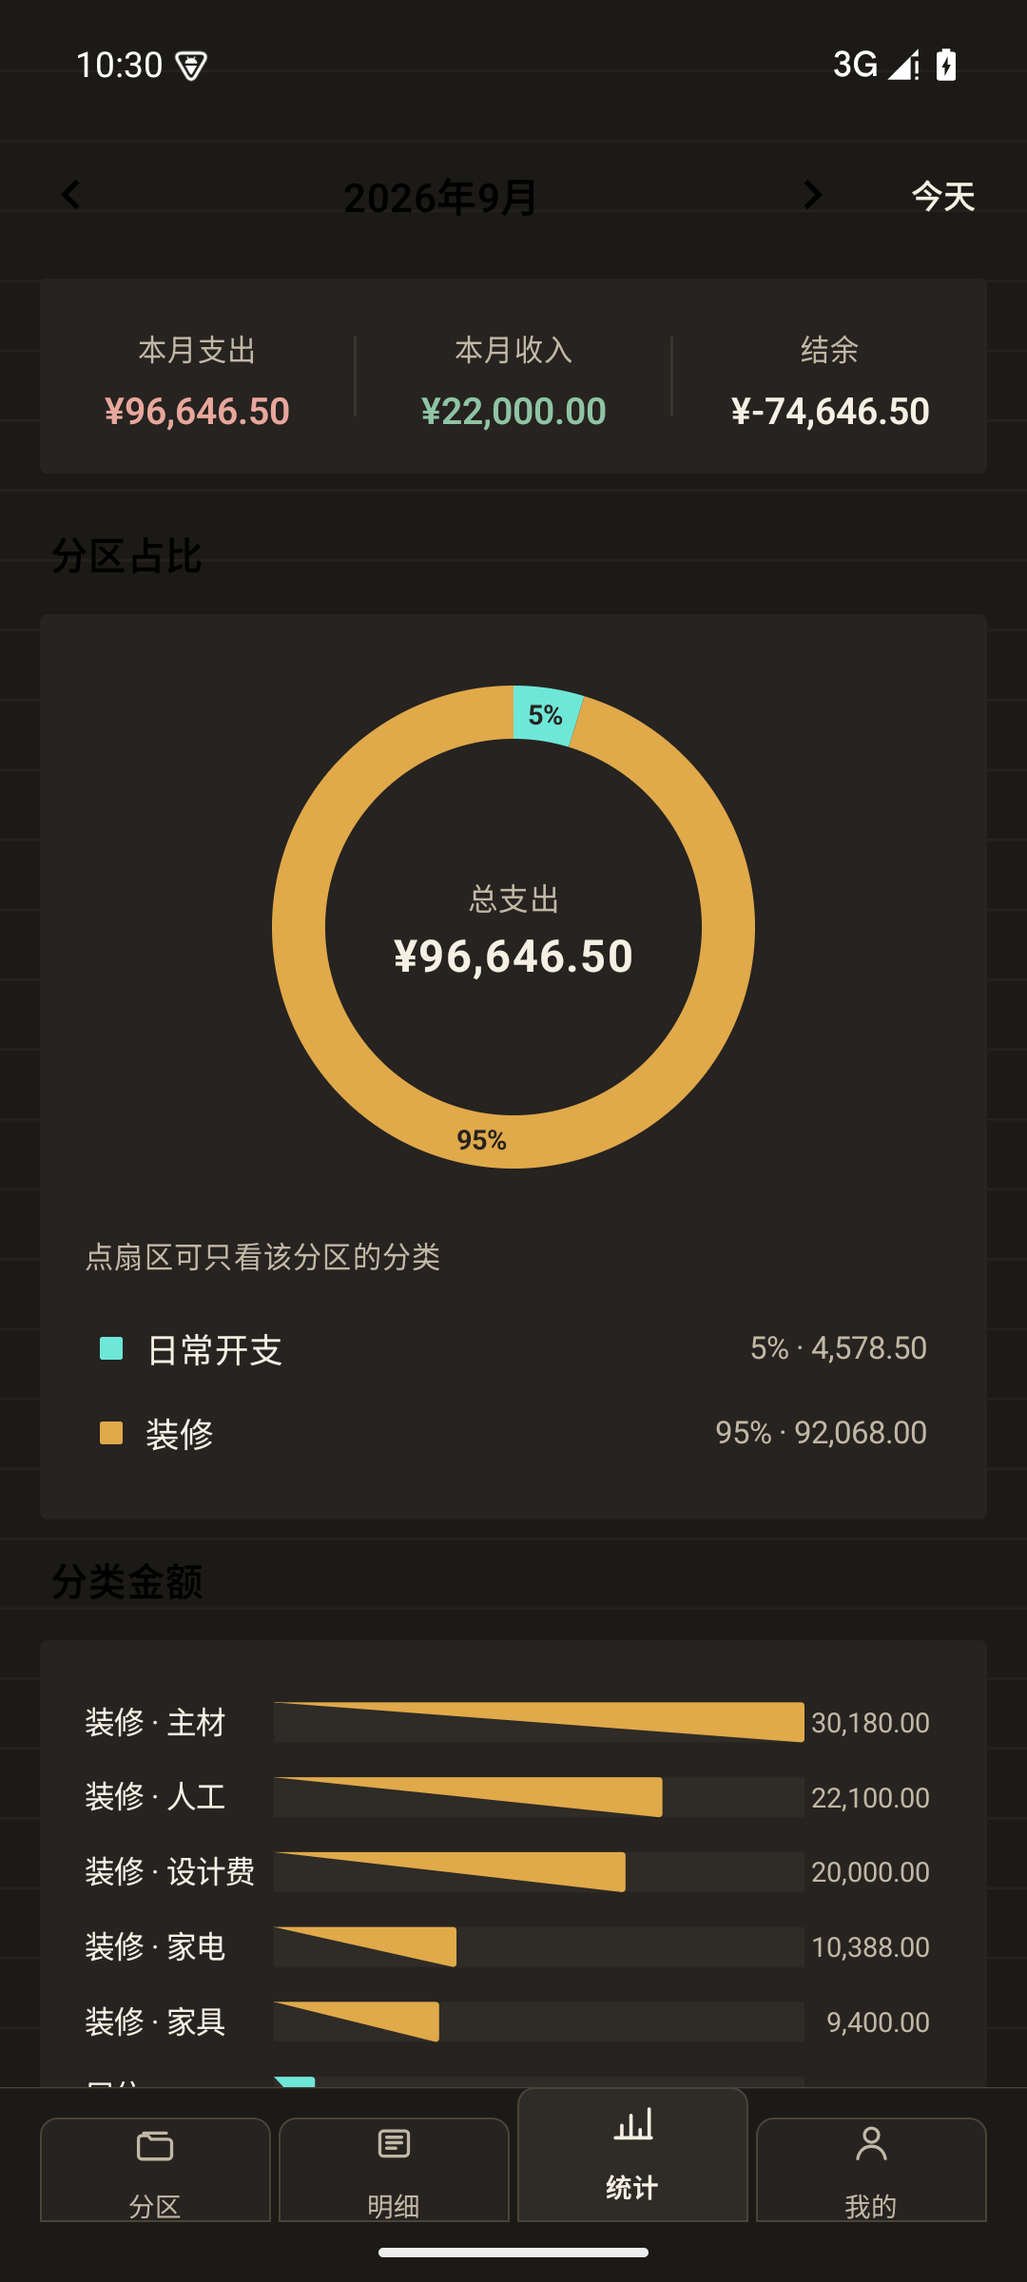
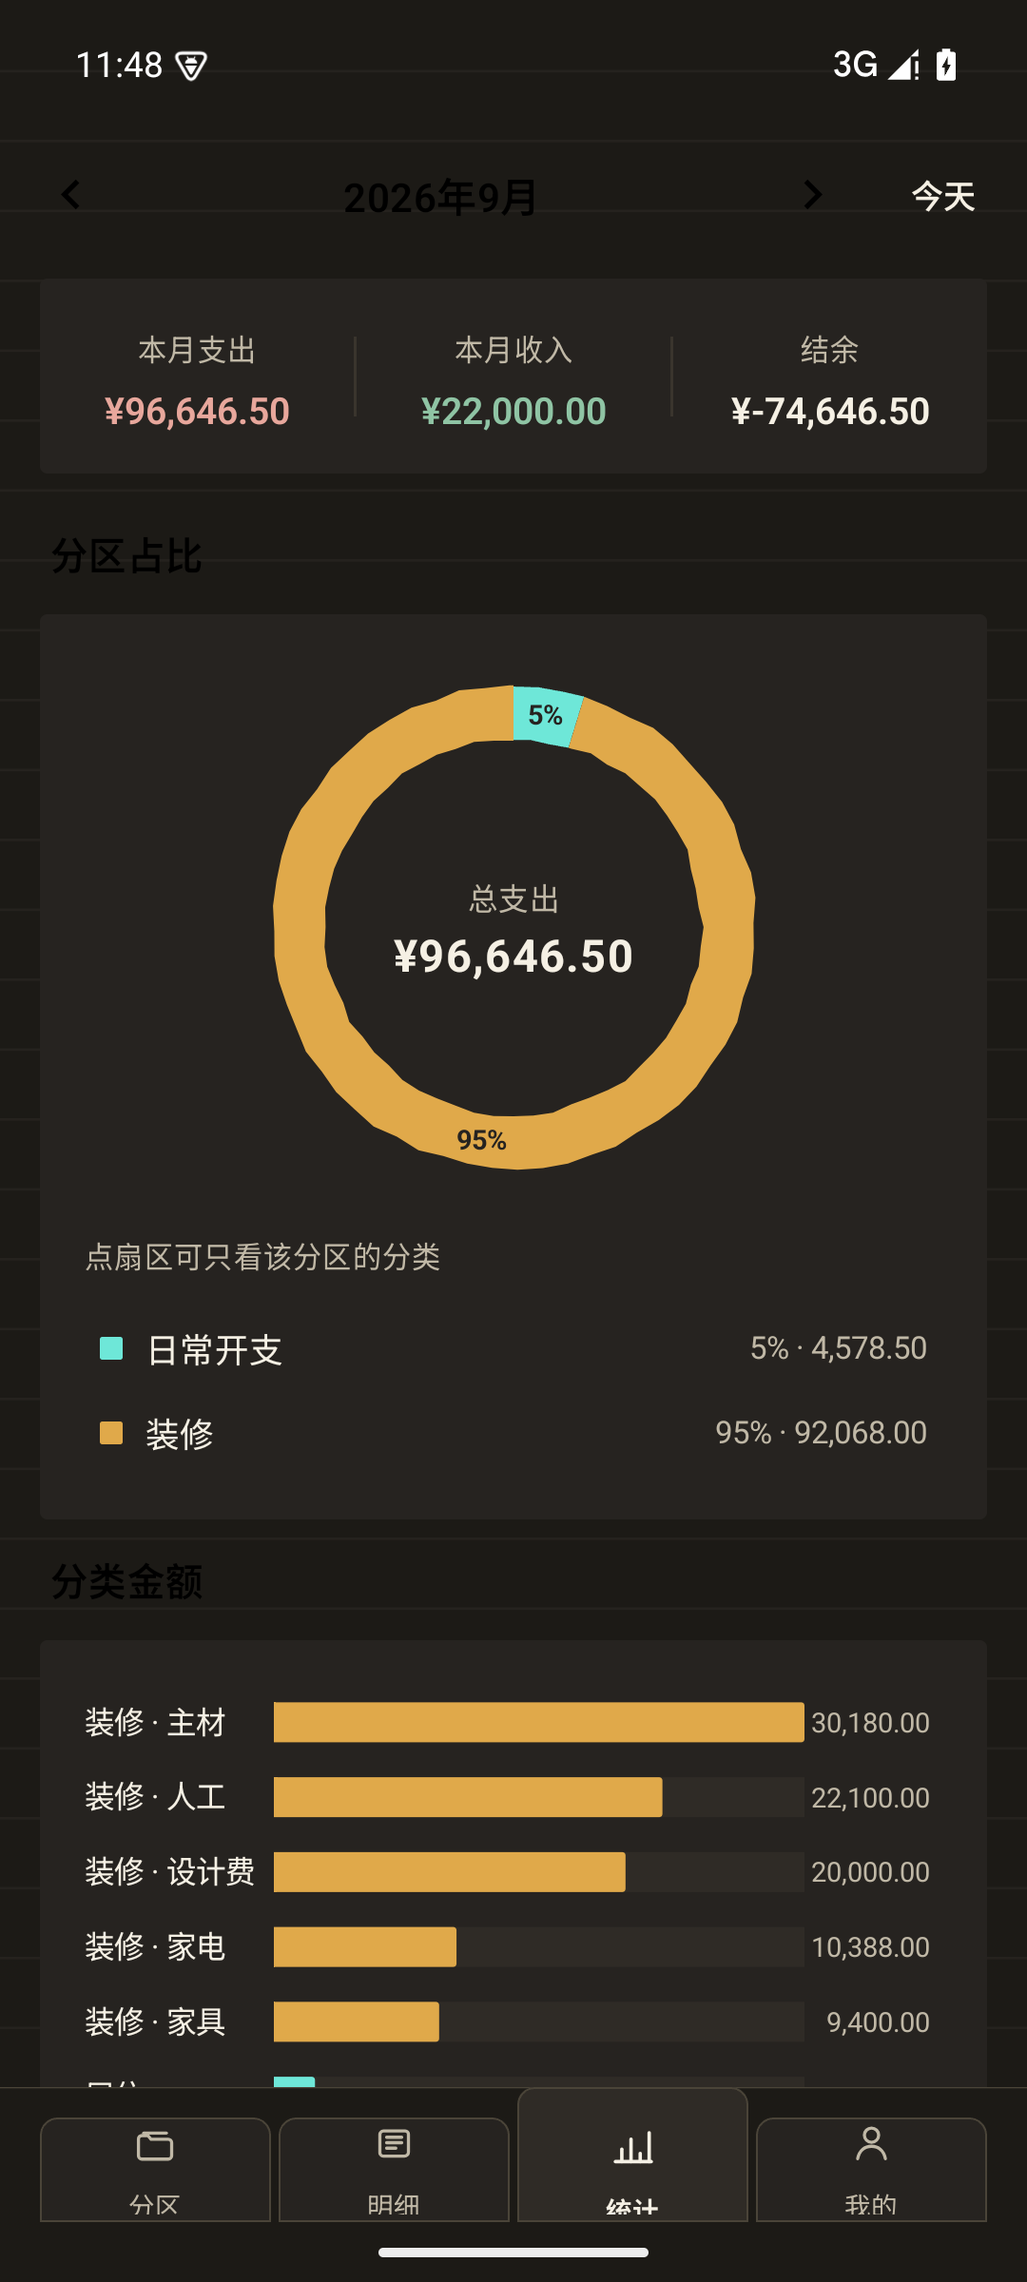
feat(journal): P2 收口 —— 手绘环图 / 日期头降噪 / 菜单锚点 / 规范措辞清理
【P2-1 手绘环图（规范 §2.5「手绘甜甜圈：外圈抖动描边」）】
DonutChart 的环带不再用完美圆弧 drawArc，改为「环形扇面路径」：
外缘顺时针、内缘逆时针各采样一排点，半径按角度散列微抖 ±1dp。
三条底线：扇区起止角保持精确（数据准确性不被手绘感吃掉）；
采样点按角度分桶（6° 一桶），相邻扇区在公共边界取同一抖动值 → 接缝不裂；
抖动确定性（同 markerJitter 的散列派生）→ 重组时不抖屏。
同时不再单独画挖空圆 —— 每个扇区是自封闭的环形扇面，环心自然留空。

【P2-2 日期头只显示有值的半边】
某天只有支出时不再显示「收 0.00」、只有收入时不显示「支 0.00」——
「0.00」不携带信息还占宽度，且让人下意识怀疑漏记。
真机核对：9月19日 只有支出 → 「支 2,045.00」（改前是「支 2,045.00 收 0.00」）；
9月20日 两侧都有 → 「支 21.00　收 3,500.00」不变。
day_summary 资源随之删除（文案改在 DayHeader 里按值拼装）。

【P2-3 长按菜单锚定到行的右上角】
DropdownMenu 内部的 Modifier.align(TopEnd) 对弹出位置**无效**——
那个 modifier 作用于弹窗内容，不是锚点；不包一层 Box 的话，弹窗锚定到行的
左上角（实测渲染在左侧，与代码意图相反）。修法：包一层 Box(align=TopEnd) 定位。
真机核对：菜单首项「复制一笔」中心 x=866（右侧 ✓，改前在左侧）。

【P2-4 更正一项误判】
「明细列表底部被记一笔按钮压住」经真机滚动到底复核：最后一行 cy=1985，
底栏索引贴顶 y≈2238，之间有 96dp 空隙 —— **无遮挡，该条是我的误判**，更正并撤销。

【P2-5 规范措辞】§2.1 图示删掉「顶部 2dp 主墨描边」残留（该顶条已在前一提交删除）。

【代码质量（按 code-readability-for-agents 六步工作流自查）】
- 命名审计：本轮 15 个新符号（DonutChart/SectionDonutChart/CategoryBarChart/
  sectionShares/filterBySection/DonutSlice/SectionShare/BarRow/DonutGeometry…）
  每个定义唯一、搜索唯一命中，无跨模块重名；
- 0-emoji 检查揪出 M2 遗留的一处注释 emoji（Theme.kt:42，当时漏检）—— 已清除；
- Charts.kt 615 行（4 张图 + 3 段读屏摘要）：全 App 的图表集中在单一文件，
  一次搜索即达，暂不拆分；体量登记为例外。
- 删除无用资源 day_summary、未用变量 holeColor。

【验证】
- assembleDebug + assembleRelease + testDebugUnitTest 全绿，编译 0 警告
- 0-emoji 检查 ✅
- 真机浅色/深色截图：stats-donut-handdrawn(.dark).png、entry-menu-topright.png

Changed region(s): [[0.2444, 0.7188, 0.7028, 0.9062], [0.5806, 0.9062, 0.6417, 0.9688], [0.0917, 0.0, 0.1528, 0.0312]]

diff --git a/app/src/main/java/com/simpleledger/app/ui/ledger/LedgerRows.kt b/app/src/main/java/com/simpleledger/app/ui/ledger/LedgerRows.kt
@@ -72,7 +72,13 @@ import com.simpleledger.app.ui.theme.tapeColor
  * 故所有既有引用（含跨包的 `import ...ledger.AmountText`）无需任何改动。
  */
 
-/** 日分组标题：日期 + 当日收支汇总 */
+/**
+ * 日分组标题：日期 + 当日收支汇总。
+ *
+ * 汇总**只显示有值的半边**：某天只有支出时不写「收 0.00」、只有收入时不写「支 0.00」
+ * ——「0.00」不携带任何信息，却占掉一截宽度，还让人下意识去核对是不是漏记了。
+ * 两边都有值时才并排（中间用全角空格隔开，读屏与视觉同一份文案）。
+ */
 @Composable
 internal fun DayHeader(dateLabel: String, expenseCents: Long, incomeCents: Long) {
     val hidden = LocalHideAmounts.current
@@ -94,11 +100,13 @@ internal fun DayHeader(dateLabel: String, expenseCents: Long, incomeCents: Long)
             text = if (hidden) {
                 stringResource(R.string.day_summary_hidden)
             } else {
-                stringResource(
-                    R.string.day_summary,
-                    Money.formatCents(expenseCents),
-                    Money.formatCents(incomeCents),
-                )
+                buildString {
+                    if (expenseCents > 0) append("支 ").append(Money.formatCents(expenseCents))
+                    if (incomeCents > 0) {
+                        if (isNotEmpty()) append("　")
+                        append("收 ").append(Money.formatCents(incomeCents))
+                    }
+                }
             },
             fontSize = 11.5.sp,
             color = MaterialTheme.colorScheme.onSurfaceVariant,
@@ -309,86 +317,91 @@ internal fun EntryRow(
             AmountText(amountCents = full.entry.amountCents, isIncome = isIncome)
         }
 
-        DropdownMenu(
-            expanded = menuOpen,
-            onDismissRequest = { menuOpen = false },
-            modifier = Modifier.align(Alignment.TopEnd),
-        ) {
-            DropdownMenuItem(
-                text = { Text(stringResource(R.string.duplicate_one)) },
-                onClick = {
-                    menuOpen = false
-                    onDuplicate()
-                },
-            )
-            DropdownMenuItem(
-                text = { Text(stringResource(R.string.move_section_title)) },
-                onClick = {
-                    menuOpen = false
-                    onMove()
-                },
-            )
-
-            // v4 双维状态入口（规范 §3.5）。两项都放在「移动」与「删除」之间：
-            // 删除是破坏性动作，必须离上面的日常动作远一点。
-            onToggleReconciled?.let { toggle ->
-                val already = full.entry.reconciled
+        // 弹出菜单锚定在行的**右上角**：DropdownMenu 内部的 align(TopEnd) 对弹出位置
+        // 无效 —— 那个 modifier 作用于弹窗内容，不是锚点；不包一层 Box 的话，
+        // 弹窗会锚定到行的左上角（实测渲染在左侧，与意图相反）。
+        Box(modifier = Modifier.align(Alignment.TopEnd)) {
+            DropdownMenu(
+                expanded = menuOpen,
+                onDismissRequest = { menuOpen = false },
+                modifier = Modifier.align(Alignment.TopEnd),
+            ) {
                 DropdownMenuItem(
-                    text = {
-                        // 名词会被读成「当前状态」，动作词才读得懂点下去的结果
-                        Text(
-                            stringResource(
-                                if (already) R.string.entry_unmark_reconciled
-                                else R.string.entry_mark_reconciled,
-                            )
-                        )
-                    },
+                    text = { Text(stringResource(R.string.duplicate_one)) },
                     onClick = {
                         menuOpen = false
-                        toggle(!already)
+                        onDuplicate()
+                    },
+                )
+                DropdownMenuItem(
+                    text = { Text(stringResource(R.string.move_section_title)) },
+                    onClick = {
+                        menuOpen = false
+                        onMove()
+                    },
+                )
+
+                // v4 双维状态入口（规范 §3.5）。两项都放在「移动」与「删除」之间：
+                // 删除是破坏性动作，必须离上面的日常动作远一点。
+                onToggleReconciled?.let { toggle ->
+                    val already = full.entry.reconciled
+                    DropdownMenuItem(
+                        text = {
+                            // 名词会被读成「当前状态」，动作词才读得懂点下去的结果
+                            Text(
+                                stringResource(
+                                    if (already) R.string.entry_unmark_reconciled
+                                    else R.string.entry_mark_reconciled,
+                                )
+                            )
+                        },
+                        onClick = {
+                            menuOpen = false
+                            toggle(!already)
+                        },
+                    )
+                }
+                onSetReimburseState?.let { setState ->
+                    // 三条里只显示与当前状态不同的两条 —— 否则菜单里会出现
+                    // 「标记待报销」而它已经待报销，点下去毫无反馈。
+                    val current = full.entry.reimburseState
+                    if (current != ReimburseState.PENDING) {
+                        DropdownMenuItem(
+                            text = { Text(stringResource(R.string.entry_mark_reimburse_pending)) },
+                            onClick = {
+                                menuOpen = false
+                                setState(ReimburseState.PENDING)
+                            },
+                        )
+                    }
+                    if (current != ReimburseState.CLEARED) {
+                        DropdownMenuItem(
+                            text = { Text(stringResource(R.string.entry_mark_reimburse_cleared)) },
+                            onClick = {
+                                menuOpen = false
+                                setState(ReimburseState.CLEARED)
+                            },
+                        )
+                    }
+                    if (current != ReimburseState.NONE) {
+                        DropdownMenuItem(
+                            text = { Text(stringResource(R.string.entry_clear_reimburse)) },
+                            onClick = {
+                                menuOpen = false
+                                setState(ReimburseState.NONE)
+                            },
+                        )
+                    }
+                }
+
+                DropdownMenuItem(
+                    text = { Text(stringResource(R.string.delete), color = MaterialTheme.colorScheme.error) },
+                    onClick = {
+                        menuOpen = false
+                        onDelete()
                     },
                 )
             }
-            onSetReimburseState?.let { setState ->
-                // 三条里只显示与当前状态不同的两条 —— 否则菜单里会出现
-                // 「标记待报销」而它已经待报销，点下去毫无反馈。
-                val current = full.entry.reimburseState
-                if (current != ReimburseState.PENDING) {
-                    DropdownMenuItem(
-                        text = { Text(stringResource(R.string.entry_mark_reimburse_pending)) },
-                        onClick = {
-                            menuOpen = false
-                            setState(ReimburseState.PENDING)
-                        },
-                    )
-                }
-                if (current != ReimburseState.CLEARED) {
-                    DropdownMenuItem(
-                        text = { Text(stringResource(R.string.entry_mark_reimburse_cleared)) },
-                        onClick = {
-                            menuOpen = false
-                            setState(ReimburseState.CLEARED)
-                        },
-                    )
-                }
-                if (current != ReimburseState.NONE) {
-                    DropdownMenuItem(
-                        text = { Text(stringResource(R.string.entry_clear_reimburse)) },
-                        onClick = {
-                            menuOpen = false
-                            setState(ReimburseState.NONE)
-                        },
-                    )
-                }
-            }
-
-            DropdownMenuItem(
-                text = { Text(stringResource(R.string.delete), color = MaterialTheme.colorScheme.error) },
-                onClick = {
-                    menuOpen = false
-                    onDelete()
-                },
-            )
         }
     }
 }

diff --git a/app/src/main/java/com/simpleledger/app/ui/components/Charts.kt b/app/src/main/java/com/simpleledger/app/ui/components/Charts.kt
@@ -131,7 +131,6 @@ fun DonutChart(
     onSliceClick: ((Int) -> Unit)? = null,
 ) {
     val trackColor = MaterialTheme.colorScheme.surfaceVariant
-    val holeColor = MaterialTheme.colorScheme.surface
     val labelColor = MaterialTheme.colorScheme.surface
     // sp → px 必须经 LocalDensity 换算：Canvas 原生画笔只认像素，
     // 直接写 textSize = 24f 在 420dpi 屏上只有 9dp，小到读不出来。
@@ -200,44 +199,75 @@ fun DonutChart(
                     style = Stroke(width = g.stroke, cap = StrokeCap.Butt),
                 )
             } else {
-                var startAngle = -90f
+                // ---- 手绘环带（规范 §2.5「手绘甜甜圈：外圈抖动描边」）----
+                // 沿外缘/内缘各采样一排点，半径按角度散列微抖（确定性，同手绘隐喻与
+                // markerJitter 同源）——完美圆弧是「屏幕控件语言」，抖动才是手绘痕迹。
+                //
+                // 三条底线：
+                //  · 扇区的**起止角保持精确**（采样的起止点不抖）——数据的准确性
+                //    不许被手绘感吃掉；
+                //  · 采样点按角度分桶（每 6°），相邻扇区在公共边界上取到同一个抖动值
+                //    → 接缝处不会裂开或重叠；
+                //  · 抖动幅度 ±2.5px ≈ ±1dp，肉眼是"手画的"，不影响读数。
+                //
+                // 每个扇区画成一个「环形扇面」路径（外缘顺时针 + 内缘逆时针 + close），
+                // 环心是自然留出的空腔 —— 不再需要单独画一个挖空圆。
+                val stepDeg = 6f
+                fun ringPoint(ringDeg: Float, radius: Float) = Offset(
+                    g.cx + radius * kotlin.math.sin(Math.toRadians(ringDeg.toDouble())).toFloat(),
+                    g.cy - radius * kotlin.math.cos(Math.toRadians(ringDeg.toDouble())).toFloat(),
+                )
+                // 同一角度在同一 salt 下永远得到同一个抖动值（确定性）
+                fun wob(ringDeg: Float, salt: Int): Float =
+                    (markerJitter(kotlin.math.round(ringDeg / stepDeg).toInt(), salt) - 0.5f) * 2f * 2.5f
+                fun edge(ringDeg: Float, radius: Float, salt: Int) =
+                    ringPoint(ringDeg, radius + wob(ringDeg, salt))
+
+                var ringStart = 0f
                 slices.forEachIndexed { index, slice ->
                     val sweep = (slice.fraction * 360f).toFloat()
+                    val ringEnd = ringStart + sweep
                     // 选中扇区环带加粗（形变，见组件说明②）
                     val band = if (index == selectedIndex) g.stroke + 12f else g.stroke
-                    drawArc(
-                        color = slice.color,
-                        startAngle = startAngle,
-                        sweepAngle = sweep,
-                        useCenter = false,
-                        topLeft = g.topLeft,
-                        size = g.arcSize,
-                        style = Stroke(width = band, cap = StrokeCap.Butt),
-                    )
+                    val rOut = g.diameter / 2f + band / 2f
+                    val rIn = g.diameter / 2f - band / 2f
 
-                    // 兜底②：占比数值直接标在图上
+                    val path = Path().apply {
+                        // 外缘：起点 → 终点（顺时针）
+                        var a = ringStart
+                        moveTo(edge(a, rOut, 11).x, edge(a, rOut, 11).y)
+                        while (a < ringEnd - 0.01f) {
+                            a = minOf(a + stepDeg, ringEnd)
+                            lineTo(edge(a, rOut, 11).x, edge(a, rOut, 11).y)
+                        }
+                        // 内缘：终点 → 起点（逆时针）
+                        var b = ringEnd
+                        lineTo(edge(b, rIn, 23).x, edge(b, rIn, 23).y)
+                        while (b > ringStart + 0.01f) {
+                            b = maxOf(b - stepDeg, ringStart)
+                            lineTo(edge(b, rIn, 23).x, edge(b, rIn, 23).y)
+                        }
+                        close()
+                    }
+                    drawPath(path, color = slice.color)
+
+                    // 兜底②：占比数值直接标在图上（环带中线）
                     val text = StatsCalculator.percentLabel(slice.fraction)
                     val textWidth = paint.measureText(text)
                     // 环带中线半径 = diameter/2（Stroke 以路径为中心向两侧各扩 stroke/2）
                     val arcLength = Math.toRadians(sweep.toDouble()).toFloat() * (g.diameter / 2f)
                     if (textWidth + 10f <= arcLength) {
-                        val midRad = Math.toRadians((startAngle + sweep / 2f).toDouble())
-                        val px = g.cx + (g.diameter / 2f) * kotlin.math.cos(midRad).toFloat()
-                        val py = g.cy + (g.diameter / 2f) * kotlin.math.sin(midRad).toFloat()
+                        val midRing = ringStart + sweep / 2f
+                        val px = g.cx + (g.diameter / 2f) * kotlin.math.sin(Math.toRadians(midRing.toDouble())).toFloat()
+                        val py = g.cy - (g.diameter / 2f) * kotlin.math.cos(Math.toRadians(midRing.toDouble())).toFloat()
                         // baseline 垂直居中：加回约半行高（0.36em 是常见近似值）
                         drawContext.canvas.nativeCanvas.drawText(
                             text, px, py + labelPx * 0.36f, paint,
                         )
                     }
-                    startAngle += sweep
+                    ringStart = ringEnd
                 }
             }
-            // 中心挖空成环
-            drawCircle(
-                color = holeColor,
-                radius = (g.diameter - g.stroke * 2) / 2f,
-                center = Offset(g.cx, g.cy),
-            )
         }
         Column(horizontalAlignment = Alignment.CenterHorizontally) {
             Text(centerLabel, fontSize = 12.sp, color = MaterialTheme.colorScheme.onSurfaceVariant)

diff --git a/app/src/main/java/com/simpleledger/app/ui/theme/Theme.kt b/app/src/main/java/com/simpleledger/app/ui/theme/Theme.kt
@@ -39,7 +39,7 @@ import com.simpleledger.app.ui.LocalReduceMotion
       同一行里颜色的**唯一含义是分区**（胶带色板 8 色）。
       因此分类图标一律单色、状态符号只用语义色，不得再引入第三套色彩语义。
 
-   ⚠ 与 1.0 的破坏性差异（换皮会一次性改变全 App 观感）：
+   【与 1.0 的破坏性差异】（换皮会一次性改变全 App 观感）：
       · #FAF9F7 暖白 → #F7F3E9 暖纸（更黄一档）
       · #1C1917 暖黑 → #17403A 墨青（10.35:1）
       · 支出 #B84742 → #A83E33 朱砂；收入 #3D7A55 → #3E6B4E 松烟
